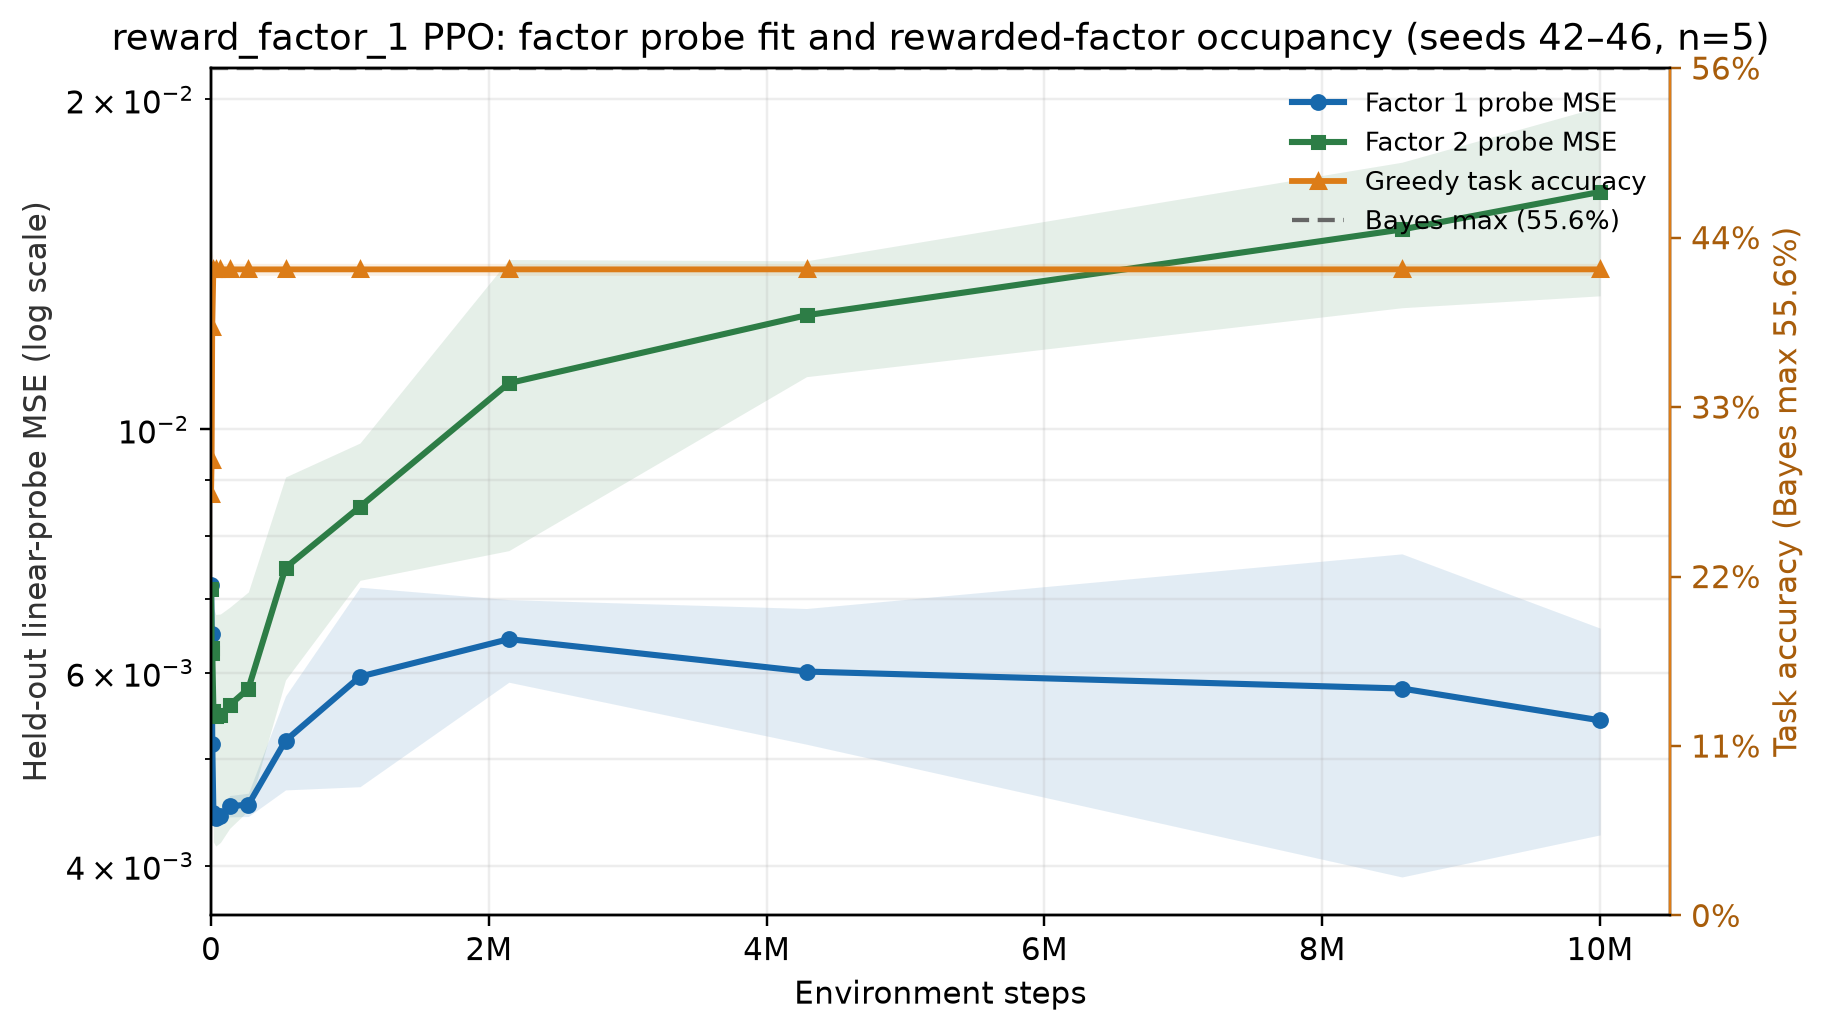
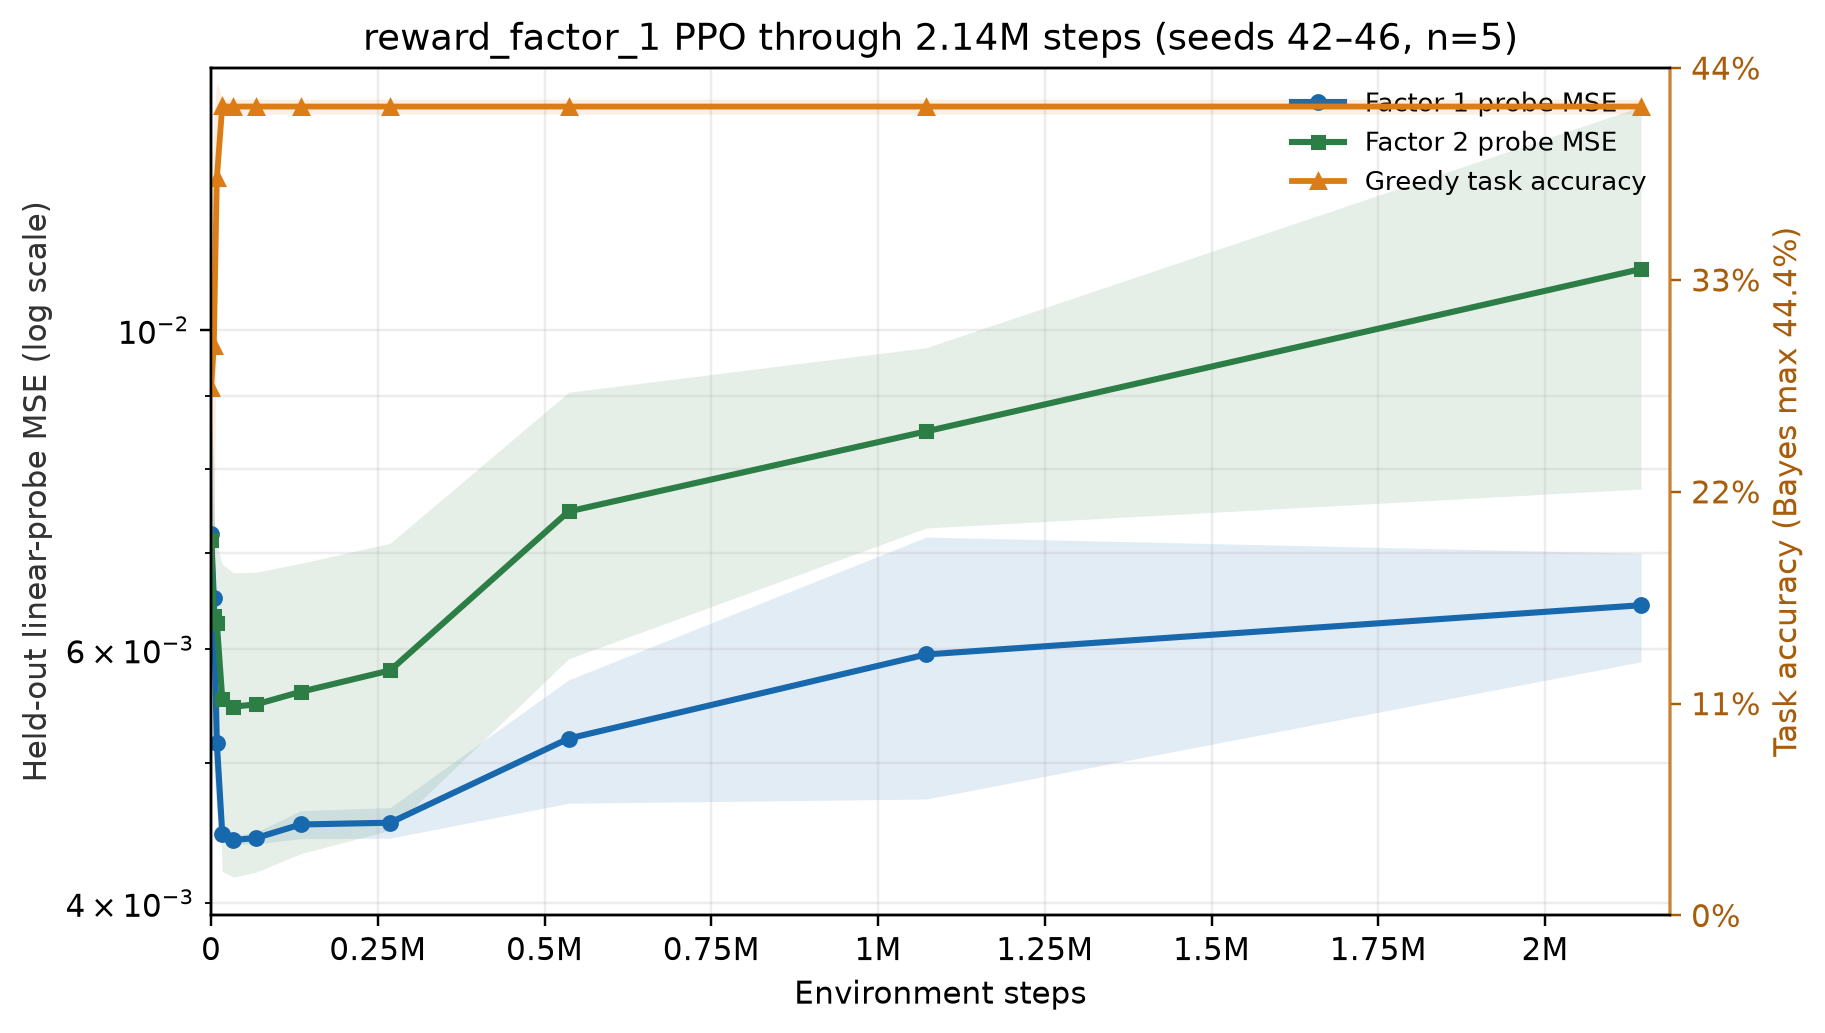
Truncate reward_factor_1 probe plot at 2M and fix Bayes max
Stop at checkpoint index 10 (~2.14M steps), remove the Bayes reference line,
and scale the right axis to the preregistered QMDP audit reward (~44.4%)
instead of the fully observed state-oracle ceiling (~55.6%).

diff --git a/experiments/two_factor_reward_state_PPO_cycle_1/plot_reward_factor_1_probes.py b/experiments/two_factor_reward_state_PPO_cycle_1/plot_reward_factor_1_probes.py
@@ -15,8 +15,8 @@ import matplotlib.pyplot as plt  # noqa: E402
 import numpy as np  # noqa: E402
 from matplotlib.ticker import FuncFormatter, PercentFormatter  # noqa: E402
 
-from experiments.two_factor_reward_state_PPO_cycle_1.design import (
-    REFERENCE_VALUES,
+from experiments.two_factor_reward_state_PPO_cycle_1.reference import (
+    bayes_max_reward_factor_1,
 )
 
 STUDY_ROOT = Path(__file__).resolve().parent
@@ -25,7 +25,8 @@ DEFAULT_OUTPUT = (
     DEFAULT_RESULTS_ROOT / "reward_factor_1_probe_mse_and_accuracy.png"
 )
 DEFAULT_SEEDS = (42, 43, 44, 45, 46)
-BAYES_MAX_ACCURACY = REFERENCE_VALUES["fully_observed"]
+# First log-spaced checkpoint strictly after 2,000,000 environment steps.
+DEFAULT_MAX_CHECKPOINT_INDEX = 10
 
 
 def _load_seed_reports(results_root: Path, seed: int) -> list[dict[str, Any]]:
@@ -49,12 +50,18 @@ def load_trajectory(
     *,
     results_root: Path = DEFAULT_RESULTS_ROOT,
     seeds: tuple[int, ...] = DEFAULT_SEEDS,
+    max_checkpoint_index: int | None = DEFAULT_MAX_CHECKPOINT_INDEX,
 ) -> dict[str, Any]:
     """Aggregate checkpoint-aligned probe trajectories across seeds."""
 
     by_index: dict[int, list[dict[str, Any]]] = defaultdict(list)
     for seed in seeds:
         for checkpoint_index, report in enumerate(_load_seed_reports(results_root, seed)):
+            if (
+                max_checkpoint_index is not None
+                and checkpoint_index > max_checkpoint_index
+            ):
+                continue
             by_index[checkpoint_index].append(
                 {
                     "seed": seed,
@@ -98,7 +105,8 @@ def load_trajectory(
         )
     return {
         "seeds": list(seeds),
-        "bayes_max_accuracy": BAYES_MAX_ACCURACY,
+        "max_checkpoint_index": max_checkpoint_index,
+        "bayes_max_reward": bayes_max_reward_factor_1(),
         "points": points,
     }
 
@@ -108,11 +116,18 @@ def plot_reward_factor_1_probes(
     *,
     results_root: Path = DEFAULT_RESULTS_ROOT,
     seeds: tuple[int, ...] = DEFAULT_SEEDS,
+    max_checkpoint_index: int | None = DEFAULT_MAX_CHECKPOINT_INDEX,
 ) -> Path:
     """Write dual-axis probe MSE and greedy occupancy trajectory."""
 
-    trajectory = load_trajectory(results_root=results_root, seeds=seeds)
+    trajectory = load_trajectory(
+        results_root=results_root,
+        seeds=seeds,
+        max_checkpoint_index=max_checkpoint_index,
+    )
     points = trajectory["points"]
+    if not points:
+        raise ValueError("no checkpoint probes matched the requested step window")
     steps = np.asarray([point["agent_steps_mean"] for point in points])
     factor_1_mean = np.asarray([point["factor_1_mse_mean"] for point in points])
     factor_1_sd = np.asarray([point["factor_1_mse_sd"] for point in points])
@@ -120,7 +135,7 @@ def plot_reward_factor_1_probes(
     factor_2_sd = np.asarray([point["factor_2_mse_sd"] for point in points])
     accuracy_mean = np.asarray([point["task_accuracy_mean"] for point in points])
     accuracy_sd = np.asarray([point["task_accuracy_sd"] for point in points])
-    bayes_max = float(trajectory["bayes_max_accuracy"])
+    bayes_max = float(trajectory["bayes_max_reward"])
 
     figure, left = plt.subplots(figsize=(8.4, 4.8))
     right = left.twinx()
@@ -137,7 +152,7 @@ def plot_reward_factor_1_probes(
         upper = mean + sd
         left.fill_between(steps, lower, upper, color=color, alpha=0.12, linewidth=0)
 
-    factor_1_line = left.plot(
+    left.plot(
         steps,
         factor_1_mean,
         color=factor_1_color,
@@ -145,8 +160,8 @@ def plot_reward_factor_1_probes(
         markersize=4.5,
         linewidth=2.0,
         label="Factor 1 probe MSE",
-    )[0]
-    factor_2_line = left.plot(
+    )
+    left.plot(
         steps,
         factor_2_mean,
         color=factor_2_color,
@@ -154,7 +169,7 @@ def plot_reward_factor_1_probes(
         markersize=4.0,
         linewidth=2.0,
         label="Factor 2 probe MSE",
-    )[0]
+    )
 
     right.fill_between(
         steps,
@@ -164,7 +179,7 @@ def plot_reward_factor_1_probes(
         alpha=0.12,
         linewidth=0,
     )
-    accuracy_line = right.plot(
+    right.plot(
         steps,
         accuracy_mean,
         color=accuracy_color,
@@ -172,13 +187,6 @@ def plot_reward_factor_1_probes(
         markersize=4.5,
         linewidth=1.9,
         label="Greedy task accuracy",
-    )[0]
-    bayes_line = right.axhline(
-        bayes_max,
-        color="#666666",
-        linestyle=(0, (4, 2)),
-        linewidth=1.4,
-        label=f"Bayes max ({bayes_max:.1%})",
     )
 
     left.set_yscale("log")
@@ -189,7 +197,7 @@ def plot_reward_factor_1_probes(
         color="#a85d0b",
     )
     right.set_ylim(0.0, bayes_max)
-    right.set_yticks(np.linspace(0.0, bayes_max, 6))
+    right.set_yticks(np.linspace(0.0, bayes_max, 5))
     right.yaxis.set_major_formatter(PercentFormatter(xmax=1.0, decimals=0))
     right.tick_params(axis="y", colors="#a85d0b")
     right.spines["right"].set_color(accuracy_color)
@@ -198,10 +206,12 @@ def plot_reward_factor_1_probes(
         lambda value, _: "0" if value == 0 else f"{value / 1_000_000:g}M"
     )
     left.xaxis.set_major_formatter(step_formatter)
-    left.set_xlim(left=0.0)
+    left.set_xlim(left=0.0, right=float(steps.max()) * 1.02)
     left.grid(alpha=0.22, which="both")
+    last = points[-1]
     left.set_title(
-        "reward_factor_1 PPO: factor probe fit and rewarded-factor occupancy "
+        "reward_factor_1 PPO through "
+        f"{last['agent_steps_mean'] / 1_000_000:.2f}M steps "
         f"(seeds {min(seeds)}–{max(seeds)}, n={len(seeds)})"
     )
 
@@ -232,11 +242,21 @@ def main(argv: list[str] | None = None) -> None:
         nargs="+",
         default=list(DEFAULT_SEEDS),
     )
+    parser.add_argument(
+        "--max-checkpoint-index",
+        type=int,
+        default=DEFAULT_MAX_CHECKPOINT_INDEX,
+        help=(
+            "Include checkpoints up to this index (10 is the first checkpoint "
+            "just north of 2M steps)."
+        ),
+    )
     args = parser.parse_args(argv)
     path = plot_reward_factor_1_probes(
         args.output,
         results_root=args.results_root,
         seeds=tuple(args.seeds),
+        max_checkpoint_index=args.max_checkpoint_index,
     )
     print(path)
 

diff --git a/experiments/two_factor_reward_state_PPO_cycle_1/reference.py b/experiments/two_factor_reward_state_PPO_cycle_1/reference.py
@@ -1,0 +1,145 @@
+"""Reference rewards for the two-factor reward-state control task."""
+
+from __future__ import annotations
+
+import numpy as np
+from envs.hmm import HMMEnv
+from envs.mess3.model import emission_matrix
+
+from experiments.two_factor_reward_state_SAC_cycle_1.design import (
+    AUDIT_BURN_IN,
+    AUDIT_CHAINS,
+    AUDIT_STEPS,
+    GAMMA,
+    demand_audit,
+    fully_observed_q_values,
+)
+from experiments.two_factor_reward_state_PPO_cycle_1.process import (
+    MESS3_ALPHA,
+    JOINT_STATE_COUNT,
+    environment_config,
+)
+from experiments.two_factor_reward_state_PPO_cycle_1.task import (
+    ACTION_PAIRS,
+    REWARD_STATE,
+    joint_transition,
+)
+
+
+def _joint_emission_matrix() -> np.ndarray:
+    factor_emission = emission_matrix(MESS3_ALPHA)
+    joint_emission = np.zeros((JOINT_STATE_COUNT, JOINT_STATE_COUNT))
+    for state in range(JOINT_STATE_COUNT):
+        factor_1 = state // 3
+        factor_2 = state % 3
+        for token in range(JOINT_STATE_COUNT):
+            token_1 = token // 3
+            token_2 = token % 3
+            joint_emission[state, token] = (
+                factor_emission[factor_1, token_1]
+                * factor_emission[factor_2, token_2]
+            )
+    return joint_emission
+
+
+def _reward_vector() -> np.ndarray:
+    return (np.arange(JOINT_STATE_COUNT) // 3 == REWARD_STATE).astype(np.float64)
+
+
+def _factored_optimal_joint_q_values() -> np.ndarray:
+    """Q-values for reward_factor_1 under a factor-1-optimal joint policy."""
+
+    transitions = np.stack([joint_transition(action) for action in range(9)])
+    reward = _reward_vector()
+    factor_values = fully_observed_q_values(gamma=GAMMA).max(axis=1)
+    next_values = factor_values[np.arange(JOINT_STATE_COUNT) // 3]
+    return reward[:, None] + GAMMA * np.einsum(
+        "asj,j->as",
+        transitions,
+        next_values,
+    )
+
+
+def _shift_to_flat_action(*, factor_2_shift: int = 0) -> dict[int, int]:
+    mapping: dict[int, int] = {}
+    for action, (shift_1, shift_2) in enumerate(ACTION_PAIRS):
+        if shift_2 == factor_2_shift and shift_1 not in mapping:
+            mapping[shift_1] = action
+    return mapping
+
+
+def fully_observed_reward_factor_1(*, steps: int = 200_000, seed: int = 20260828) -> float:
+    """Mean per-step reward under factor-1-optimal control with visible states."""
+
+    policy_1 = fully_observed_q_values(gamma=GAMMA).argmax(axis=1)
+    action_for_shift = _shift_to_flat_action(factor_2_shift=0)
+    config = environment_config("reward_factor_1")
+    config["diagnostics"] = {"state": True}
+    env = HMMEnv(config)
+    rewards: list[float] = []
+    _, info = env.reset(seed=seed)
+    for _ in range(steps):
+        factor_1 = info["state_current"] // 3
+        _, reward, _, truncated, info = env.step(action_for_shift[policy_1[factor_1]])
+        rewards.append(reward)
+        if truncated:
+            _, info = env.reset()
+    return float(np.mean(rewards))
+
+
+def two_factor_qmdp_reward_factor_1(
+    *,
+    steps: int = 200_000,
+    seed: int = 20260828,
+) -> float:
+    """Mean per-step reward under exact-filter QMDP control in the two-factor env."""
+
+    q_values = _factored_optimal_joint_q_values()
+    config = environment_config("reward_factor_1")
+    config["diagnostics"] = {"belief": True}
+    env = HMMEnv(config)
+    rewards: list[float] = []
+    _, info = env.reset(seed=seed)
+    for _ in range(steps):
+        belief = info["belief_current"]
+        _, reward, _, truncated, info = env.step(int((belief @ q_values).argmax()))
+        rewards.append(reward)
+        if truncated:
+            _, info = env.reset()
+    return float(np.mean(rewards))
+
+
+def bayes_max_reward_factor_1(*, seed: int = 20260828) -> float:
+    """Bayes-optimal mean per-step reward for reward_factor_1.
+
+    The preregistered partial-observability audit simulates the single-factor
+    QMDP benchmark that this study family uses as the Bayes reference. The
+    fully observed factor-1 ceiling in the actual two-factor environment is
+    higher (~5/9), but that requires latent-state access rather than filtering
+    joint tokens.
+    """
+
+    del seed
+    return float(demand_audit()["qmdp"])
+
+
+def reference_rewards(*, seed: int = 20260828) -> dict[str, float]:
+    """Return the main reference reward ceilings used in plots and write-ups."""
+
+    return {
+        "bayes_max_reward": bayes_max_reward_factor_1(seed=seed),
+        "audit_qmdp_reward": float(demand_audit()["qmdp"]),
+        "two_factor_qmdp_reward": two_factor_qmdp_reward_factor_1(seed=seed),
+        "fully_observed_reward": fully_observed_reward_factor_1(seed=seed),
+    }
+
+
+__all__ = [
+    "AUDIT_BURN_IN",
+    "AUDIT_CHAINS",
+    "AUDIT_STEPS",
+    "bayes_max_reward_factor_1",
+    "fully_observed_reward_factor_1",
+    "reference_rewards",
+    "two_factor_qmdp_reward_factor_1",
+]
